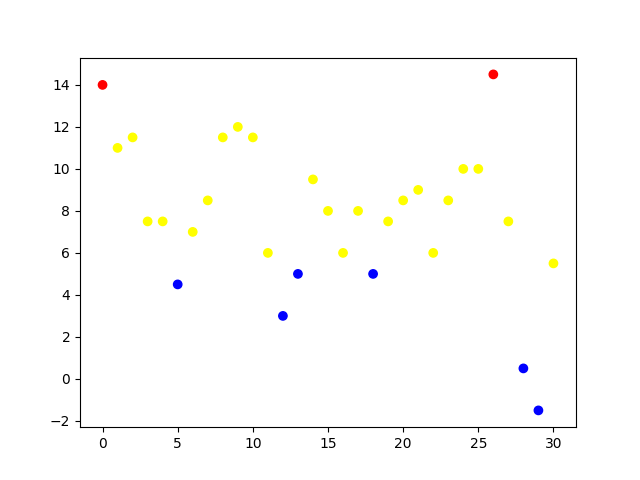
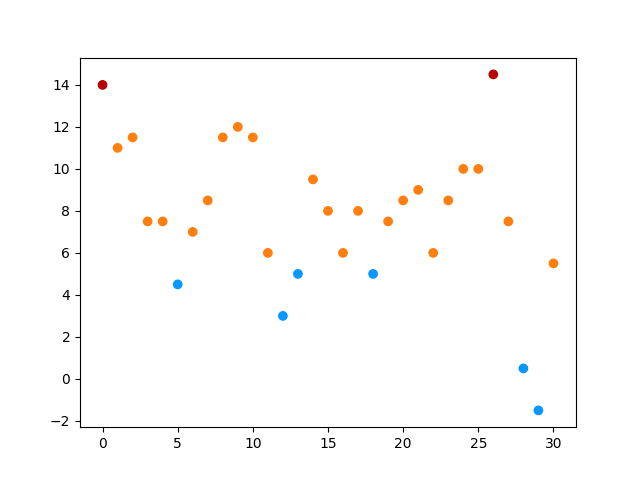
Enhance data visualization with consistent color palette for pie and scatter plots; update related images

diff --git a/data_visualization.py b/data_visualization.py
@@ -1,5 +1,7 @@
-import numpy as np
 import matplotlib.pyplot as plt
+
+# Color palette for consistency
+color_palette = ["#0798ff", "#ff7f0e", "#b70000"]
 
 # Reading the data from text file
 with open("weather_data.txt") as f:
@@ -44,7 +46,11 @@ label_occurrences = [
     weather_labels.count("just fine"),
     weather_labels.count("hot"),
 ]
-ax.pie(label_occurrences, labels=["cold", "just fine", "hot"])
+ax.pie(
+    label_occurrences,
+    labels=["cold", "just fine", "hot"],
+    colors=color_palette,
+)
 
 plt.savefig("pie_chart.png")
 plt.clf()
@@ -61,15 +67,13 @@ plt.clf()
 weather_colors = []
 for label in weather_labels:
     if label == "cold":
-        weather_colors.append("blue")
+        weather_colors.append(color_palette[0])
     elif label == "just fine":
-        weather_colors.append("yellow")
+        weather_colors.append(color_palette[1])
     else:
-        weather_colors.append("red")
+        weather_colors.append(color_palette[2])
 
 plt.scatter(days, weather_data, c=weather_colors)
 
 plt.savefig("scatter_plot.png")
 plt.clf()
-
-print("Hello GitHub!")
